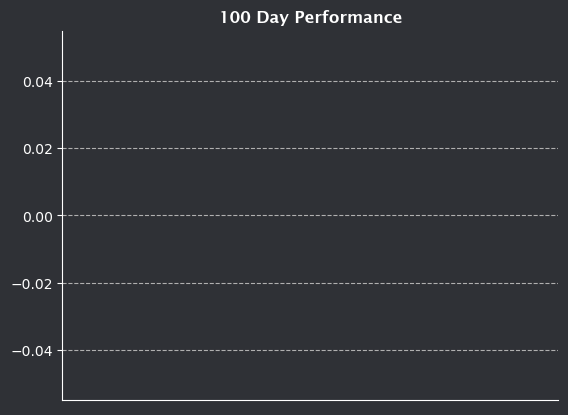
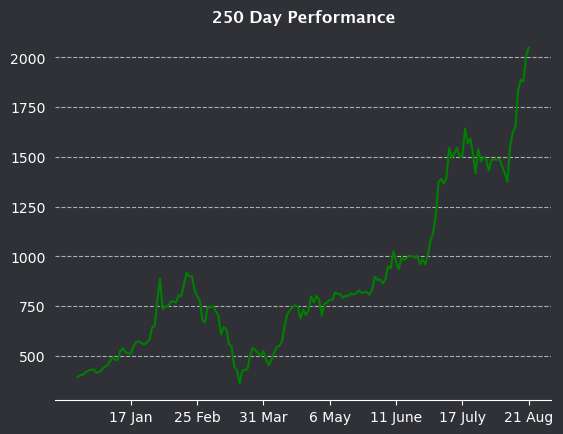
fixed graph class and made it slightly better

diff --git a/cogs/StockInfo.py b/cogs/StockInfo.py
@@ -2,7 +2,8 @@ from bs4 import BeautifulSoup
 from discord.ext import commands
 from ruamel.yaml import YAML
 import requests, discord, datetime, matplotlib as mpl, matplotlib.pyplot as plt
- 
+
+
 
 class StockInfo(commands.Cog):
     def __init__(self, bot):
@@ -13,7 +14,7 @@ class StockInfo(commands.Cog):
 
         requestedStock = Stocks(stock)
 
-        Graph(requestedStock, 100).create_graph()
+        Graph(requestedStock, 250).create_graph()
 
         # Change colour of embed depending on performance
         try: 
@@ -86,7 +87,6 @@ class Graph():
         self.stock = stock
         self.duration = duration
 
-
     def create_graph(self):
         today = datetime.date.today()
         dates = []
@@ -105,7 +105,7 @@ class Graph():
 
         # Get list of prices 
 
-        r = requests.get(f"http://api.marketstack.com/v1/eod?access_key={api_key}symbols={self.stock.getStockSymbol}&limit={self.duration}")
+        r = requests.get(f"http://api.marketstack.com/v1/eod?access_key={api_key}symbols={self.stock.getStockSymbol()}&limit={self.duration}")
         closing_prices = []
         price_dates = []
         json = r.json()
@@ -132,25 +132,28 @@ class Graph():
         price_dates = price_dates[::-1]
         price_dates = [reformat_date(date) for date in price_dates]
 
-        # Create ticks list
 
+        # Create ticks list
+        increment = self.duration // 10
         ticks = []
         index = len(closing_prices)-1
         while index > 0:
             ticks.append(index)
-            index -= 3
+            index -= increment
 
         ticks = tuple(ticks)
 
         mpl.rcParams['axes.spines.right'] = False
         mpl.rcParams['axes.spines.top'] = False
+        mpl.rcParams['axes.spines.left'] = False
+        plt.rcParams['ytick.left'] = False
         plt.rcParams['axes.facecolor'] = '2f3136'
         plt.rcParams['axes.edgecolor'] = 'white'
         plt.rcParams['figure.facecolor'] = '2f3136'
         plt.rcParams['text.color'] = 'white'
         plt.rcParams['axes.labelcolor'] = 'white'
-        mpl.rcParams['xtick.color'] = 'white'
-        mpl.rcParams['ytick.color'] = 'white'
+        plt.rcParams['ytick.color'] = 'white'
+        plt.rcParams['xtick.color'] = 'white'
 
         plt.plot(price_dates, closing_prices, color='green')
         plt.xticks(ticks)
